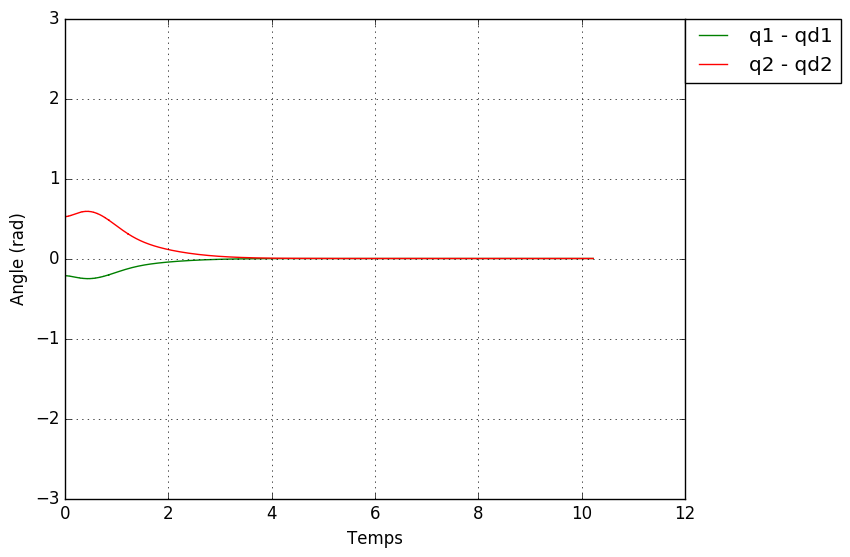
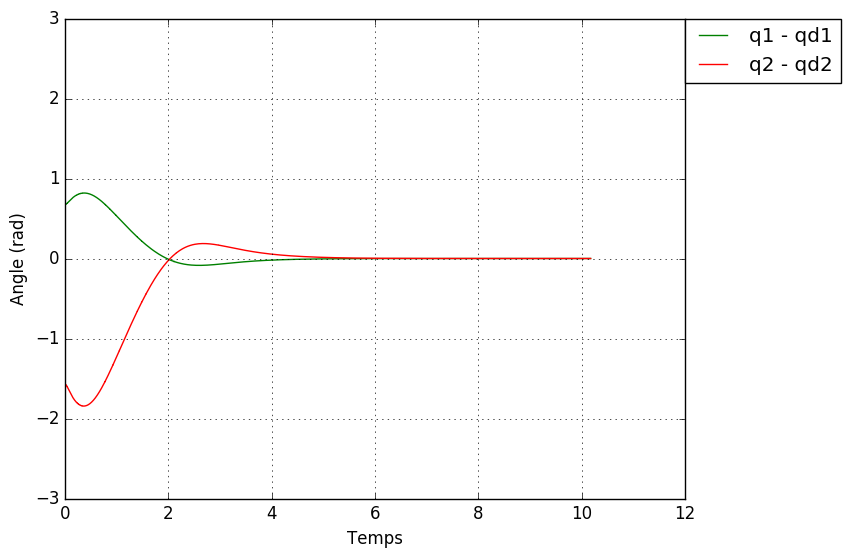
un peu mieux

diff --git a/Code/test.py b/Code/test.py
@@ -20,11 +20,9 @@ tab = [[], [], []]
 # qd2 = -pi / 2  # En radian!!
 # send_val_qd2(qd2)
 # calcul_gains_m()
-it = 1
-th1 = 90.0
-th2 = 0.0
+it = 0
 
-vals_qd2 = [-pi / 4, -pi / 3, -pi / 2, 0, pi / 2, pi / 3, pi / 4]
+vals_qd2 = [-pi / 2, pi / 3, -pi / 6, 0, pi / 2, -pi / 3, pi / 6]
 
 _last_time = 0
 g = 9.81  # gravite (m/s^2)
@@ -115,8 +113,12 @@ def derivs(state, t):
 
 def maj_param():
     global qd1, qd2, it, kdd, kd, kp, th1, th2
-    th1 = math.degrees(qd1)
-    th2 = math.degrees(qd2)
+    if it == 0:
+        th1 = 90.0
+        th2 = 0
+    else:
+        th1 = math.degrees(qd1)
+        th2 = math.degrees(qd2)
     qd2 = vals_qd2[it]
     send_val_qd2(qd2)
     calcul_gains_m()
@@ -133,24 +135,22 @@ dth2 = 0.0
 
 
 # kp, kd, kdd, qd1 = getGains()
-qd2 = vals_qd2[0]
-send_val_qd2(qd2)
-state = np.array([th1, dth1, th2, dth2]) * pi / 180.
-calcul_gains_m()
-kp, kd, kdd, qd1 = getGains()
+
 t = np.arange(0.0, 10 , dt)
-y = integrate.odeint(derivs, state, t, mxstep=5000000)
 
 do_plot(tab[0], tab[1], tab[2], 0)
 tab = [[], [], []]
 
-for i in range(len(vals_qd2)-1):
+for i in range(len(vals_qd2)):
     print("itération :", i)
     t = np.arange(0.0, 10, dt)
     maj_param()
     state = np.array([th1, dth1, th2, dth2]) * pi / 180.
-    z = integrate.odeint(derivs, state, t, mxstep=5000000)
-    y = np.concatenate((y, z))
+    if i == 0:
+        y = integrate.odeint(derivs, state, t, mxstep=5000000)
+    else:
+        z = integrate.odeint(derivs, state, t, mxstep=5000000)
+        y = np.concatenate((y, z))
     do_plot(tab[0], tab[1], tab[2], i)
     tab = [[], [], []]
 
